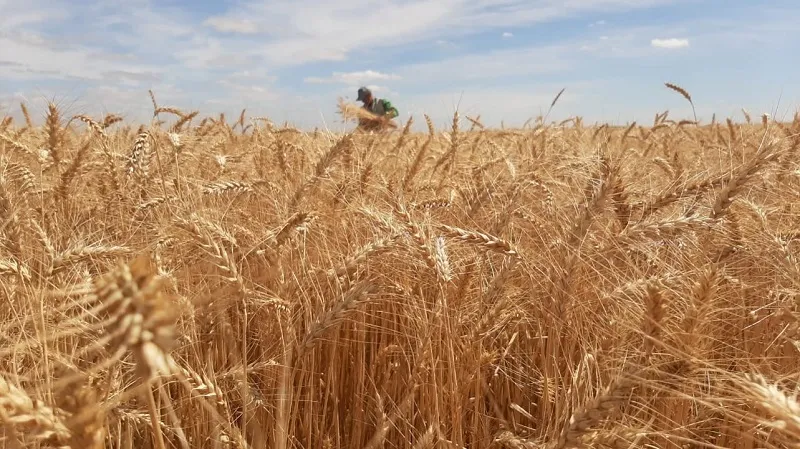
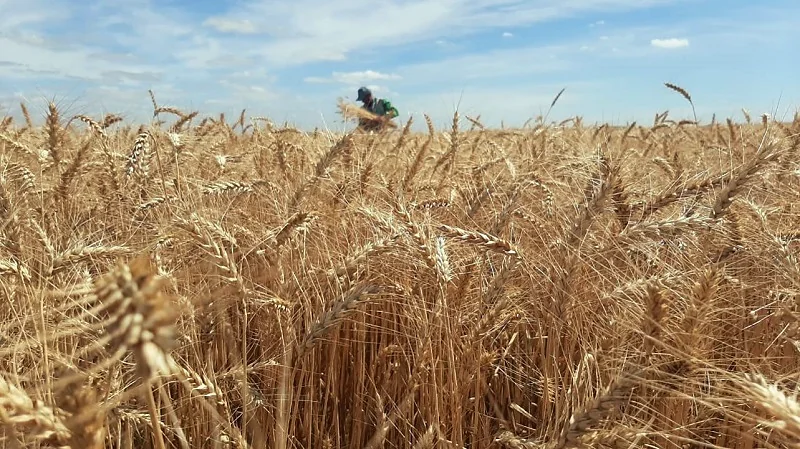
Ferme du Montaval : photos de la ferme améliorées (originaux 2000 px, 1x/2x), photo du magasin inchangée, noindex conservé

diff --git a/ferme-du-montaval/index.html b/ferme-du-montaval/index.html
@@ -258,7 +258,7 @@ h1,h2,h3,.marque,.chiffre,.mois,.reperes dt,.mot,.prix b{font-family:"Young Seri
       <p>Légumes, fruits et produits de la ferme en libre-service, devant la ferme. Vous passez quand ça vous arrange.</p></div>
     </article>
     <article class="facon f-vendredi">
-      <img src="img/recolte.webp" alt="Récolte de poireaux à la ferme" width="1400" height="1050" loading="lazy">
+      <img src="img/recolte-1x.webp" srcset="img/recolte-1x.webp 1000w, img/recolte.webp 2000w" sizes="(max-width:960px) 100vw, 45vw" alt="Récolte de poireaux à la ferme" width="2000" height="1500" loading="lazy">
       <div class="txt"><h3><svg class="ico" viewBox="0 0 24 24" aria-hidden="true" fill="none" stroke="currentColor" stroke-width="1.75" stroke-linecap="round" stroke-linejoin="round"><path d="M3 11 12 4l9 7"/><path d="M5 10v10h14V10"/><path d="M10 20v-5h4v5"/></svg>Vente à la ferme</h3><p class="quand">Le vendredi, de 16 h à 20&nbsp;h</p>
       <p>Fruits et légumes, pommes de terre de plusieurs variétés, œufs frais, viande de notre élevage, jus de la ferme et épicerie locale.</p></div>
     </article>
@@ -296,7 +296,7 @@ h1,h2,h3,.marque,.chiffre,.mois,.reperes dt,.mot,.prix b{font-family:"Young Seri
 </div>
 <div class="defilement" aria-label="Avis Google de nos clients"><div class="defile rang1"><ul class="piste" style="--duree:49s"><li class="carte-avis"><div class="qui"><span class="avatar" style="background:#b80672" aria-hidden="true">I</span><span class="nom">Isabel M.<small>il y a 3 ans</small></span><span class="g" aria-label="Avis Google">G</span></div><span class="note-carte" aria-label="5 sur 5"><span class="etoiles" aria-hidden="true"><svg viewBox="0 0 20 20" aria-hidden="true"><path d="M10 1.8l2.5 5.3 5.7.7-4.2 4 1.1 5.7L10 14.7 4.9 17.5 6 11.8 1.8 7.8l5.7-.7L10 1.8z" fill="currentColor" stroke="currentColor" stroke-width="1.2"/></svg><svg viewBox="0 0 20 20" aria-hidden="true"><path d="M10 1.8l2.5 5.3 5.7.7-4.2 4 1.1 5.7L10 14.7 4.9 17.5 6 11.8 1.8 7.8l5.7-.7L10 1.8z" fill="currentColor" stroke="currentColor" stroke-width="1.2"/></svg><svg viewBox="0 0 20 20" aria-hidden="true"><path d="M10 1.8l2.5 5.3 5.7.7-4.2 4 1.1 5.7L10 14.7 4.9 17.5 6 11.8 1.8 7.8l5.7-.7L10 1.8z" fill="currentColor" stroke="currentColor" stroke-width="1.2"/></svg><svg viewBox="0 0 20 20" aria-hidden="true"><path d="M10 1.8l2.5 5.3 5.7.7-4.2 4 1.1 5.7L10 14.7 4.9 17.5 6 11.8 1.8 7.8l5.7-.7L10 1.8z" fill="currentColor" stroke="currentColor" stroke-width="1.2"/></svg><svg viewBox="0 0 20 20" aria-hidden="true"><path d="M10 1.8l2.5 5.3 5.7.7-4.2 4 1.1 5.7L10 14.7 4.9 17.5 6 11.8 1.8 7.8l5.7-.7L10 1.8z" fill="currentColor" stroke="currentColor" stroke-width="1.2"/></svg></span></span><p>«&nbsp;Très belle ferme innovante grâce à son nouveau distributeur de légumes. Un très joli petit magasin où le patron est à l'écoute de sa clientèle&nbsp;»</p></li><li class="carte-avis court"><div class="qui"><span class="avatar" style="background:#5f6368" aria-hidden="true">C</span><span class="nom">Cecile M.<small>il y a 4 mois</small></span><span class="g" aria-label="Avis Google">G</span></div><span class="note-carte" aria-label="5 sur 5"><span class="etoiles" aria-hidden="true"><svg viewBox="0 0 20 20" aria-hidden="true"><path d="M10 1.8l2.5 5.3 5.7.7-4.2 4 1.1 5.7L10 14.7 4.9 17.5 6 11.8 1.8 7.8l5.7-.7L10 1.8z" fill="currentColor" stroke="currentColor" stroke-width="1.2"/></svg><svg viewBox="0 0 20 20" aria-hidden="true"><path d="M10 1.8l2.5 5.3 5.7.7-4.2 4 1.1 5.7L10 14.7 4.9 17.5 6 11.8 1.8 7.8l5.7-.7L10 1.8z" fill="currentColor" stroke="currentColor" stroke-width="1.2"/></svg><svg viewBox="0 0 20 20" aria-hidden="true"><path d="M10 1.8l2.5 5.3 5.7.7-4.2 4 1.1 5.7L10 14.7 4.9 17.5 6 11.8 1.8 7.8l5.7-.7L10 1.8z" fill="currentColor" stroke="currentColor" stroke-width="1.2"/></svg><svg viewBox="0 0 20 20" aria-hidden="true"><path d="M10 1.8l2.5 5.3 5.7.7-4.2 4 1.1 5.7L10 14.7 4.9 17.5 6 11.8 1.8 7.8l5.7-.7L10 1.8z" fill="currentColor" stroke="currentColor" stroke-width="1.2"/></svg><svg viewBox="0 0 20 20" aria-hidden="true"><path d="M10 1.8l2.5 5.3 5.7.7-4.2 4 1.1 5.7L10 14.7 4.9 17.5 6 11.8 1.8 7.8l5.7-.7L10 1.8z" fill="currentColor" stroke="currentColor" stroke-width="1.2"/></svg></span></span></li><li class="carte-avis court"><div class="qui"><span class="avatar" style="background:#7b5e00" aria-hidden="true">C</span><span class="nom">Clémence S.<small>il y a 7 mois</small></span><span class="g" aria-label="Avis Google">G</span></div><span class="note-carte" aria-label="5 sur 5"><span class="etoiles" aria-hidden="true"><svg viewBox="0 0 20 20" aria-hidden="true"><path d="M10 1.8l2.5 5.3 5.7.7-4.2 4 1.1 5.7L10 14.7 4.9 17.5 6 11.8 1.8 7.8l5.7-.7L10 1.8z" fill="currentColor" stroke="currentColor" stroke-width="1.2"/></svg><svg viewBox="0 0 20 20" aria-hidden="true"><path d="M10 1.8l2.5 5.3 5.7.7-4.2 4 1.1 5.7L10 14.7 4.9 17.5 6 11.8 1.8 7.8l5.7-.7L10 1.8z" fill="currentColor" stroke="currentColor" stroke-width="1.2"/></svg><svg viewBox="0 0 20 20" aria-hidden="true"><path d="M10 1.8l2.5 5.3 5.7.7-4.2 4 1.1 5.7L10 14.7 4.9 17.5 6 11.8 1.8 7.8l5.7-.7L10 1.8z" fill="currentColor" stroke="currentColor" stroke-width="1.2"/></svg><svg viewBox="0 0 20 20" aria-hidden="true"><path d="M10 1.8l2.5 5.3 5.7.7-4.2 4 1.1 5.7L10 14.7 4.9 17.5 6 11.8 1.8 7.8l5.7-.7L10 1.8z" fill="currentColor" stroke="currentColor" stroke-width="1.2"/></svg><svg viewBox="0 0 20 20" aria-hidden="true"><path d="M10 1.8l2.5 5.3 5.7.7-4.2 4 1.1 5.7L10 14.7 4.9 17.5 6 11.8 1.8 7.8l5.7-.7L10 1.8z" fill="currentColor" stroke="currentColor" stroke-width="1.2"/></svg></span></span></li><li class="carte-avis court"><div class="qui"><span class="avatar" style="background:#7b5e00" aria-hidden="true">H</span><span class="nom">Haitam A.<small>il y a 11 mois</small></span><span class="g" aria-label="Avis Google">G</span></div><span class="note-carte" aria-label="5 sur 5"><span class="etoiles" aria-hidden="true"><svg viewBox="0 0 20 20" aria-hidden="true"><path d="M10 1.8l2.5 5.3 5.7.7-4.2 4 1.1 5.7L10 14.7 4.9 17.5 6 11.8 1.8 7.8l5.7-.7L10 1.8z" fill="currentColor" stroke="currentColor" stroke-width="1.2"/></svg><svg viewBox="0 0 20 20" aria-hidden="true"><path d="M10 1.8l2.5 5.3 5.7.7-4.2 4 1.1 5.7L10 14.7 4.9 17.5 6 11.8 1.8 7.8l5.7-.7L10 1.8z" fill="currentColor" stroke="currentColor" stroke-width="1.2"/></svg><svg viewBox="0 0 20 20" aria-hidden="true"><path d="M10 1.8l2.5 5.3 5.7.7-4.2 4 1.1 5.7L10 14.7 4.9 17.5 6 11.8 1.8 7.8l5.7-.7L10 1.8z" fill="currentColor" stroke="currentColor" stroke-width="1.2"/></svg><svg viewBox="0 0 20 20" aria-hidden="true"><path d="M10 1.8l2.5 5.3 5.7.7-4.2 4 1.1 5.7L10 14.7 4.9 17.5 6 11.8 1.8 7.8l5.7-.7L10 1.8z" fill="currentColor" stroke="currentColor" stroke-width="1.2"/></svg><svg viewBox="0 0 20 20" aria-hidden="true"><path d="M10 1.8l2.5 5.3 5.7.7-4.2 4 1.1 5.7L10 14.7 4.9 17.5 6 11.8 1.8 7.8l5.7-.7L10 1.8z" fill="currentColor" stroke="currentColor" stroke-width="1.2"/></svg></span></span></li><li class="carte-avis"><div class="qui"><span class="avatar" style="background:#188038" aria-hidden="true">S</span><span class="nom">Saed<small>il y a 5 ans</small></span><span class="g" aria-label="Avis Google">G</span></div><span class="note-carte" aria-label="5 sur 5"><span class="etoiles" aria-hidden="true"><svg viewBox="0 0 20 20" aria-hidden="true"><path d="M10 1.8l2.5 5.3 5.7.7-4.2 4 1.1 5.7L10 14.7 4.9 17.5 6 11.8 1.8 7.8l5.7-.7L10 1.8z" fill="currentColor" stroke="currentColor" stroke-width="1.2"/></svg><svg viewBox="0 0 20 20" aria-hidden="true"><path d="M10 1.8l2.5 5.3 5.7.7-4.2 4 1.1 5.7L10 14.7 4.9 17.5 6 11.8 1.8 7.8l5.7-.7L10 1.8z" fill="currentColor" stroke="currentColor" stroke-width="1.2"/></svg><svg viewBox="0 0 20 20" aria-hidden="true"><path d="M10 1.8l2.5 5.3 5.7.7-4.2 4 1.1 5.7L10 14.7 4.9 17.5 6 11.8 1.8 7.8l5.7-.7L10 1.8z" fill="currentColor" stroke="currentColor" stroke-width="1.2"/></svg><svg viewBox="0 0 20 20" aria-hidden="true"><path d="M10 1.8l2.5 5.3 5.7.7-4.2 4 1.1 5.7L10 14.7 4.9 17.5 6 11.8 1.8 7.8l5.7-.7L10 1.8z" fill="currentColor" stroke="currentColor" stroke-width="1.2"/></svg><svg viewBox="0 0 20 20" aria-hidden="true"><path d="M10 1.8l2.5 5.3 5.7.7-4.2 4 1.1 5.7L10 14.7 4.9 17.5 6 11.8 1.8 7.8l5.7-.7L10 1.8z" fill="currentColor" stroke="currentColor" stroke-width="1.2"/></svg></span></span><p>«&nbsp;Une expérience merveilleuse, un endroit merveilleux, le propriétaire de la ferme est le plus merveilleux et les propriétaires du lieu sont…&nbsp;»</p></li><li class="carte-avis court"><div class="qui"><span class="avatar" style="background:#b80672" aria-hidden="true">P</span><span class="nom">Pascal B.<small>il y a 5 ans</small></span><span class="g" aria-label="Avis Google">G</span></div><span class="note-carte" aria-label="5 sur 5"><span class="etoiles" aria-hidden="true"><svg viewBox="0 0 20 20" aria-hidden="true"><path d="M10 1.8l2.5 5.3 5.7.7-4.2 4 1.1 5.7L10 14.7 4.9 17.5 6 11.8 1.8 7.8l5.7-.7L10 1.8z" fill="currentColor" stroke="currentColor" stroke-width="1.2"/></svg><svg viewBox="0 0 20 20" aria-hidden="true"><path d="M10 1.8l2.5 5.3 5.7.7-4.2 4 1.1 5.7L10 14.7 4.9 17.5 6 11.8 1.8 7.8l5.7-.7L10 1.8z" fill="currentColor" stroke="currentColor" stroke-width="1.2"/></svg><svg viewBox="0 0 20 20" aria-hidden="true"><path d="M10 1.8l2.5 5.3 5.7.7-4.2 4 1.1 5.7L10 14.7 4.9 17.5 6 11.8 1.8 7.8l5.7-.7L10 1.8z" fill="currentColor" stroke="currentColor" stroke-width="1.2"/></svg><svg viewBox="0 0 20 20" aria-hidden="true"><path d="M10 1.8l2.5 5.3 5.7.7-4.2 4 1.1 5.7L10 14.7 4.9 17.5 6 11.8 1.8 7.8l5.7-.7L10 1.8z" fill="currentColor" stroke="currentColor" stroke-width="1.2"/></svg><svg viewBox="0 0 20 20" aria-hidden="true"><path d="M10 1.8l2.5 5.3 5.7.7-4.2 4 1.1 5.7L10 14.7 4.9 17.5 6 11.8 1.8 7.8l5.7-.7L10 1.8z" fill="currentColor" stroke="currentColor" stroke-width="1.2"/></svg></span></span></li><li class="carte-avis court"><div class="qui"><span class="avatar" style="background:#a142f4" aria-hidden="true">J</span><span class="nom">Jean-Luc W.<small>il y a 7 ans</small></span><span class="g" aria-label="Avis Google">G</span></div><span class="note-carte" aria-label="4 sur 5"><span class="etoiles" aria-hidden="true"><svg viewBox="0 0 20 20" aria-hidden="true"><path d="M10 1.8l2.5 5.3 5.7.7-4.2 4 1.1 5.7L10 14.7 4.9 17.5 6 11.8 1.8 7.8l5.7-.7L10 1.8z" fill="currentColor" stroke="currentColor" stroke-width="1.2"/></svg><svg viewBox="0 0 20 20" aria-hidden="true"><path d="M10 1.8l2.5 5.3 5.7.7-4.2 4 1.1 5.7L10 14.7 4.9 17.5 6 11.8 1.8 7.8l5.7-.7L10 1.8z" fill="currentColor" stroke="currentColor" stroke-width="1.2"/></svg><svg viewBox="0 0 20 20" aria-hidden="true"><path d="M10 1.8l2.5 5.3 5.7.7-4.2 4 1.1 5.7L10 14.7 4.9 17.5 6 11.8 1.8 7.8l5.7-.7L10 1.8z" fill="currentColor" stroke="currentColor" stroke-width="1.2"/></svg><svg viewBox="0 0 20 20" aria-hidden="true"><path d="M10 1.8l2.5 5.3 5.7.7-4.2 4 1.1 5.7L10 14.7 4.9 17.5 6 11.8 1.8 7.8l5.7-.7L10 1.8z" fill="currentColor" stroke="currentColor" stroke-width="1.2"/></svg><svg viewBox="0 0 20 20" aria-hidden="true"><path d="M10 1.8l2.5 5.3 5.7.7-4.2 4 1.1 5.7L10 14.7 4.9 17.5 6 11.8 1.8 7.8l5.7-.7L10 1.8z" fill="none" stroke="currentColor" stroke-width="1.2"/></svg></span></span></li><li class="carte-avis" aria-hidden="true"><div class="qui"><span class="avatar" style="background:#b80672" aria-hidden="true">I</span><span class="nom">Isabel M.<small>il y a 3 ans</small></span><span class="g" aria-label="Avis Google">G</span></div><span class="note-carte" aria-label="5 sur 5"><span class="etoiles" aria-hidden="true"><svg viewBox="0 0 20 20" aria-hidden="true"><path d="M10 1.8l2.5 5.3 5.7.7-4.2 4 1.1 5.7L10 14.7 4.9 17.5 6 11.8 1.8 7.8l5.7-.7L10 1.8z" fill="currentColor" stroke="currentColor" stroke-width="1.2"/></svg><svg viewBox="0 0 20 20" aria-hidden="true"><path d="M10 1.8l2.5 5.3 5.7.7-4.2 4 1.1 5.7L10 14.7 4.9 17.5 6 11.8 1.8 7.8l5.7-.7L10 1.8z" fill="currentColor" stroke="currentColor" stroke-width="1.2"/></svg><svg viewBox="0 0 20 20" aria-hidden="true"><path d="M10 1.8l2.5 5.3 5.7.7-4.2 4 1.1 5.7L10 14.7 4.9 17.5 6 11.8 1.8 7.8l5.7-.7L10 1.8z" fill="currentColor" stroke="currentColor" stroke-width="1.2"/></svg><svg viewBox="0 0 20 20" aria-hidden="true"><path d="M10 1.8l2.5 5.3 5.7.7-4.2 4 1.1 5.7L10 14.7 4.9 17.5 6 11.8 1.8 7.8l5.7-.7L10 1.8z" fill="currentColor" stroke="currentColor" stroke-width="1.2"/></svg><svg viewBox="0 0 20 20" aria-hidden="true"><path d="M10 1.8l2.5 5.3 5.7.7-4.2 4 1.1 5.7L10 14.7 4.9 17.5 6 11.8 1.8 7.8l5.7-.7L10 1.8z" fill="currentColor" stroke="currentColor" stroke-width="1.2"/></svg></span></span><p>«&nbsp;Très belle ferme innovante grâce à son nouveau distributeur de légumes. Un très joli petit magasin où le patron est à l'écoute de sa clientèle&nbsp;»</p></li><li class="carte-avis court" aria-hidden="true"><div class="qui"><span class="avatar" style="background:#5f6368" aria-hidden="true">C</span><span class="nom">Cecile M.<small>il y a 4 mois</small></span><span class="g" aria-label="Avis Google">G</span></div><span class="note-carte" aria-label="5 sur 5"><span class="etoiles" aria-hidden="true"><svg viewBox="0 0 20 20" aria-hidden="true"><path d="M10 1.8l2.5 5.3 5.7.7-4.2 4 1.1 5.7L10 14.7 4.9 17.5 6 11.8 1.8 7.8l5.7-.7L10 1.8z" fill="currentColor" stroke="currentColor" stroke-width="1.2"/></svg><svg viewBox="0 0 20 20" aria-hidden="true"><path d="M10 1.8l2.5 5.3 5.7.7-4.2 4 1.1 5.7L10 14.7 4.9 17.5 6 11.8 1.8 7.8l5.7-.7L10 1.8z" fill="currentColor" stroke="currentColor" stroke-width="1.2"/></svg><svg viewBox="0 0 20 20" aria-hidden="true"><path d="M10 1.8l2.5 5.3 5.7.7-4.2 4 1.1 5.7L10 14.7 4.9 17.5 6 11.8 1.8 7.8l5.7-.7L10 1.8z" fill="currentColor" stroke="currentColor" stroke-width="1.2"/></svg><svg viewBox="0 0 20 20" aria-hidden="true"><path d="M10 1.8l2.5 5.3 5.7.7-4.2 4 1.1 5.7L10 14.7 4.9 17.5 6 11.8 1.8 7.8l5.7-.7L10 1.8z" fill="currentColor" stroke="currentColor" stroke-width="1.2"/></svg><svg viewBox="0 0 20 20" aria-hidden="true"><path d="M10 1.8l2.5 5.3 5.7.7-4.2 4 1.1 5.7L10 14.7 4.9 17.5 6 11.8 1.8 7.8l5.7-.7L10 1.8z" fill="currentColor" stroke="currentColor" stroke-width="1.2"/></svg></span></span></li><li class="carte-avis court" aria-hidden="true"><div class="qui"><span class="avatar" style="background:#7b5e00" aria-hidden="true">C</span><span class="nom">Clémence S.<small>il y a 7 mois</small></span><span class="g" aria-label="Avis Google">G</span></div><span class="note-carte" aria-label="5 sur 5"><span class="etoiles" aria-hidden="true"><svg viewBox="0 0 20 20" aria-hidden="true"><path d="M10 1.8l2.5 5.3 5.7.7-4.2 4 1.1 5.7L10 14.7 4.9 17.5 6 11.8 1.8 7.8l5.7-.7L10 1.8z" fill="currentColor" stroke="currentColor" stroke-width="1.2"/></svg><svg viewBox="0 0 20 20" aria-hidden="true"><path d="M10 1.8l2.5 5.3 5.7.7-4.2 4 1.1 5.7L10 14.7 4.9 17.5 6 11.8 1.8 7.8l5.7-.7L10 1.8z" fill="currentColor" stroke="currentColor" stroke-width="1.2"/></svg><svg viewBox="0 0 20 20" aria-hidden="true"><path d="M10 1.8l2.5 5.3 5.7.7-4.2 4 1.1 5.7L10 14.7 4.9 17.5 6 11.8 1.8 7.8l5.7-.7L10 1.8z" fill="currentColor" stroke="currentColor" stroke-width="1.2"/></svg><svg viewBox="0 0 20 20" aria-hidden="true"><path d="M10 1.8l2.5 5.3 5.7.7-4.2 4 1.1 5.7L10 14.7 4.9 17.5 6 11.8 1.8 7.8l5.7-.7L10 1.8z" fill="currentColor" stroke="currentColor" stroke-width="1.2"/></svg><svg viewBox="0 0 20 20" aria-hidden="true"><path d="M10 1.8l2.5 5.3 5.7.7-4.2 4 1.1 5.7L10 14.7 4.9 17.5 6 11.8 1.8 7.8l5.7-.7L10 1.8z" fill="currentColor" stroke="currentColor" stroke-width="1.2"/></svg></span></span></li><li class="carte-avis court" aria-hidden="true"><div class="qui"><span class="avatar" style="background:#7b5e00" aria-hidden="true">H</span><span class="nom">Haitam A.<small>il y a 11 mois</small></span><span class="g" aria-label="Avis Google">G</span></div><span class="note-carte" aria-label="5 sur 5"><span class="etoiles" aria-hidden="true"><svg viewBox="0 0 20 20" aria-hidden="true"><path d="M10 1.8l2.5 5.3 5.7.7-4.2 4 1.1 5.7L10 14.7 4.9 17.5 6 11.8 1.8 7.8l5.7-.7L10 1.8z" fill="currentColor" stroke="currentColor" stroke-width="1.2"/></svg><svg viewBox="0 0 20 20" aria-hidden="true"><path d="M10 1.8l2.5 5.3 5.7.7-4.2 4 1.1 5.7L10 14.7 4.9 17.5 6 11.8 1.8 7.8l5.7-.7L10 1.8z" fill="currentColor" stroke="currentColor" stroke-width="1.2"/></svg><svg viewBox="0 0 20 20" aria-hidden="true"><path d="M10 1.8l2.5 5.3 5.7.7-4.2 4 1.1 5.7L10 14.7 4.9 17.5 6 11.8 1.8 7.8l5.7-.7L10 1.8z" fill="currentColor" stroke="currentColor" stroke-width="1.2"/></svg><svg viewBox="0 0 20 20" aria-hidden="true"><path d="M10 1.8l2.5 5.3 5.7.7-4.2 4 1.1 5.7L10 14.7 4.9 17.5 6 11.8 1.8 7.8l5.7-.7L10 1.8z" fill="currentColor" stroke="currentColor" stroke-width="1.2"/></svg><svg viewBox="0 0 20 20" aria-hidden="true"><path d="M10 1.8l2.5 5.3 5.7.7-4.2 4 1.1 5.7L10 14.7 4.9 17.5 6 11.8 1.8 7.8l5.7-.7L10 1.8z" fill="currentColor" stroke="currentColor" stroke-width="1.2"/></svg></span></span></li><li class="carte-avis" aria-hidden="true"><div class="qui"><span class="avatar" style="background:#188038" aria-hidden="true">S</span><span class="nom">Saed<small>il y a 5 ans</small></span><span class="g" aria-label="Avis Google">G</span></div><span class="note-carte" aria-label="5 sur 5"><span class="etoiles" aria-hidden="true"><svg viewBox="0 0 20 20" aria-hidden="true"><path d="M10 1.8l2.5 5.3 5.7.7-4.2 4 1.1 5.7L10 14.7 4.9 17.5 6 11.8 1.8 7.8l5.7-.7L10 1.8z" fill="currentColor" stroke="currentColor" stroke-width="1.2"/></svg><svg viewBox="0 0 20 20" aria-hidden="true"><path d="M10 1.8l2.5 5.3 5.7.7-4.2 4 1.1 5.7L10 14.7 4.9 17.5 6 11.8 1.8 7.8l5.7-.7L10 1.8z" fill="currentColor" stroke="currentColor" stroke-width="1.2"/></svg><svg viewBox="0 0 20 20" aria-hidden="true"><path d="M10 1.8l2.5 5.3 5.7.7-4.2 4 1.1 5.7L10 14.7 4.9 17.5 6 11.8 1.8 7.8l5.7-.7L10 1.8z" fill="currentColor" stroke="currentColor" stroke-width="1.2"/></svg><svg viewBox="0 0 20 20" aria-hidden="true"><path d="M10 1.8l2.5 5.3 5.7.7-4.2 4 1.1 5.7L10 14.7 4.9 17.5 6 11.8 1.8 7.8l5.7-.7L10 1.8z" fill="currentColor" stroke="currentColor" stroke-width="1.2"/></svg><svg viewBox="0 0 20 20" aria-hidden="true"><path d="M10 1.8l2.5 5.3 5.7.7-4.2 4 1.1 5.7L10 14.7 4.9 17.5 6 11.8 1.8 7.8l5.7-.7L10 1.8z" fill="currentColor" stroke="currentColor" stroke-width="1.2"/></svg></span></span><p>«&nbsp;Une expérience merveilleuse, un endroit merveilleux, le propriétaire de la ferme est le plus merveilleux et les propriétaires du lieu sont…&nbsp;»</p></li><li class="carte-avis court" aria-hidden="true"><div class="qui"><span class="avatar" style="background:#b80672" aria-hidden="true">P</span><span class="nom">Pascal B.<small>il y a 5 ans</small></span><span class="g" aria-label="Avis Google">G</span></div><span class="note-carte" aria-label="5 sur 5"><span class="etoiles" aria-hidden="true"><svg viewBox="0 0 20 20" aria-hidden="true"><path d="M10 1.8l2.5 5.3 5.7.7-4.2 4 1.1 5.7L10 14.7 4.9 17.5 6 11.8 1.8 7.8l5.7-.7L10 1.8z" fill="currentColor" stroke="currentColor" stroke-width="1.2"/></svg><svg viewBox="0 0 20 20" aria-hidden="true"><path d="M10 1.8l2.5 5.3 5.7.7-4.2 4 1.1 5.7L10 14.7 4.9 17.5 6 11.8 1.8 7.8l5.7-.7L10 1.8z" fill="currentColor" stroke="currentColor" stroke-width="1.2"/></svg><svg viewBox="0 0 20 20" aria-hidden="true"><path d="M10 1.8l2.5 5.3 5.7.7-4.2 4 1.1 5.7L10 14.7 4.9 17.5 6 11.8 1.8 7.8l5.7-.7L10 1.8z" fill="currentColor" stroke="currentColor" stroke-width="1.2"/></svg><svg viewBox="0 0 20 20" aria-hidden="true"><path d="M10 1.8l2.5 5.3 5.7.7-4.2 4 1.1 5.7L10 14.7 4.9 17.5 6 11.8 1.8 7.8l5.7-.7L10 1.8z" fill="currentColor" stroke="currentColor" stroke-width="1.2"/></svg><svg viewBox="0 0 20 20" aria-hidden="true"><path d="M10 1.8l2.5 5.3 5.7.7-4.2 4 1.1 5.7L10 14.7 4.9 17.5 6 11.8 1.8 7.8l5.7-.7L10 1.8z" fill="currentColor" stroke="currentColor" stroke-width="1.2"/></svg></span></span></li><li class="carte-avis court" aria-hidden="true"><div class="qui"><span class="avatar" style="background:#a142f4" aria-hidden="true">J</span><span class="nom">Jean-Luc W.<small>il y a 7 ans</small></span><span class="g" aria-label="Avis Google">G</span></div><span class="note-carte" aria-label="4 sur 5"><span class="etoiles" aria-hidden="true"><svg viewBox="0 0 20 20" aria-hidden="true"><path d="M10 1.8l2.5 5.3 5.7.7-4.2 4 1.1 5.7L10 14.7 4.9 17.5 6 11.8 1.8 7.8l5.7-.7L10 1.8z" fill="currentColor" stroke="currentColor" stroke-width="1.2"/></svg><svg viewBox="0 0 20 20" aria-hidden="true"><path d="M10 1.8l2.5 5.3 5.7.7-4.2 4 1.1 5.7L10 14.7 4.9 17.5 6 11.8 1.8 7.8l5.7-.7L10 1.8z" fill="currentColor" stroke="currentColor" stroke-width="1.2"/></svg><svg viewBox="0 0 20 20" aria-hidden="true"><path d="M10 1.8l2.5 5.3 5.7.7-4.2 4 1.1 5.7L10 14.7 4.9 17.5 6 11.8 1.8 7.8l5.7-.7L10 1.8z" fill="currentColor" stroke="currentColor" stroke-width="1.2"/></svg><svg viewBox="0 0 20 20" aria-hidden="true"><path d="M10 1.8l2.5 5.3 5.7.7-4.2 4 1.1 5.7L10 14.7 4.9 17.5 6 11.8 1.8 7.8l5.7-.7L10 1.8z" fill="currentColor" stroke="currentColor" stroke-width="1.2"/></svg><svg viewBox="0 0 20 20" aria-hidden="true"><path d="M10 1.8l2.5 5.3 5.7.7-4.2 4 1.1 5.7L10 14.7 4.9 17.5 6 11.8 1.8 7.8l5.7-.7L10 1.8z" fill="none" stroke="currentColor" stroke-width="1.2"/></svg></span></span></li></ul></div><div class="defile rang2"><ul class="piste" style="--duree:49s"><li class="carte-avis court"><div class="qui"><span class="avatar" style="background:#5f6368" aria-hidden="true">O</span><span class="nom">Odette L.<small>il y a 2 mois</small></span><span class="g" aria-label="Avis Google">G</span></div><span class="note-carte" aria-label="5 sur 5"><span class="etoiles" aria-hidden="true"><svg viewBox="0 0 20 20" aria-hidden="true"><path d="M10 1.8l2.5 5.3 5.7.7-4.2 4 1.1 5.7L10 14.7 4.9 17.5 6 11.8 1.8 7.8l5.7-.7L10 1.8z" fill="currentColor" stroke="currentColor" stroke-width="1.2"/></svg><svg viewBox="0 0 20 20" aria-hidden="true"><path d="M10 1.8l2.5 5.3 5.7.7-4.2 4 1.1 5.7L10 14.7 4.9 17.5 6 11.8 1.8 7.8l5.7-.7L10 1.8z" fill="currentColor" stroke="currentColor" stroke-width="1.2"/></svg><svg viewBox="0 0 20 20" aria-hidden="true"><path d="M10 1.8l2.5 5.3 5.7.7-4.2 4 1.1 5.7L10 14.7 4.9 17.5 6 11.8 1.8 7.8l5.7-.7L10 1.8z" fill="currentColor" stroke="currentColor" stroke-width="1.2"/></svg><svg viewBox="0 0 20 20" aria-hidden="true"><path d="M10 1.8l2.5 5.3 5.7.7-4.2 4 1.1 5.7L10 14.7 4.9 17.5 6 11.8 1.8 7.8l5.7-.7L10 1.8z" fill="currentColor" stroke="currentColor" stroke-width="1.2"/></svg><svg viewBox="0 0 20 20" aria-hidden="true"><path d="M10 1.8l2.5 5.3 5.7.7-4.2 4 1.1 5.7L10 14.7 4.9 17.5 6 11.8 1.8 7.8l5.7-.7L10 1.8z" fill="currentColor" stroke="currentColor" stroke-width="1.2"/></svg></span></span></li><li class="carte-avis court"><div class="qui"><span class="avatar" style="background:#007b83" aria-hidden="true">A</span><span class="nom">Amedeo H.<small>il y a 5 mois</small></span><span class="g" aria-label="Avis Google">G</span></div><span class="note-carte" aria-label="5 sur 5"><span class="etoiles" aria-hidden="true"><svg viewBox="0 0 20 20" aria-hidden="true"><path d="M10 1.8l2.5 5.3 5.7.7-4.2 4 1.1 5.7L10 14.7 4.9 17.5 6 11.8 1.8 7.8l5.7-.7L10 1.8z" fill="currentColor" stroke="currentColor" stroke-width="1.2"/></svg><svg viewBox="0 0 20 20" aria-hidden="true"><path d="M10 1.8l2.5 5.3 5.7.7-4.2 4 1.1 5.7L10 14.7 4.9 17.5 6 11.8 1.8 7.8l5.7-.7L10 1.8z" fill="currentColor" stroke="currentColor" stroke-width="1.2"/></svg><svg viewBox="0 0 20 20" aria-hidden="true"><path d="M10 1.8l2.5 5.3 5.7.7-4.2 4 1.1 5.7L10 14.7 4.9 17.5 6 11.8 1.8 7.8l5.7-.7L10 1.8z" fill="currentColor" stroke="currentColor" stroke-width="1.2"/></svg><svg viewBox="0 0 20 20" aria-hidden="true"><path d="M10 1.8l2.5 5.3 5.7.7-4.2 4 1.1 5.7L10 14.7 4.9 17.5 6 11.8 1.8 7.8l5.7-.7L10 1.8z" fill="currentColor" stroke="currentColor" stroke-width="1.2"/></svg><svg viewBox="0 0 20 20" aria-hidden="true"><path d="M10 1.8l2.5 5.3 5.7.7-4.2 4 1.1 5.7L10 14.7 4.9 17.5 6 11.8 1.8 7.8l5.7-.7L10 1.8z" fill="currentColor" stroke="currentColor" stroke-width="1.2"/></svg></span></span></li><li class="carte-avis"><div class="qui"><span class="avatar" style="background:#c5221f" aria-hidden="true">M</span><span class="nom">Michel V.<small>il y a 3 ans</small></span><span class="g" aria-label="Avis Google">G</span></div><span class="note-carte" aria-label="5 sur 5"><span class="etoiles" aria-hidden="true"><svg viewBox="0 0 20 20" aria-hidden="true"><path d="M10 1.8l2.5 5.3 5.7.7-4.2 4 1.1 5.7L10 14.7 4.9 17.5 6 11.8 1.8 7.8l5.7-.7L10 1.8z" fill="currentColor" stroke="currentColor" stroke-width="1.2"/></svg><svg viewBox="0 0 20 20" aria-hidden="true"><path d="M10 1.8l2.5 5.3 5.7.7-4.2 4 1.1 5.7L10 14.7 4.9 17.5 6 11.8 1.8 7.8l5.7-.7L10 1.8z" fill="currentColor" stroke="currentColor" stroke-width="1.2"/></svg><svg viewBox="0 0 20 20" aria-hidden="true"><path d="M10 1.8l2.5 5.3 5.7.7-4.2 4 1.1 5.7L10 14.7 4.9 17.5 6 11.8 1.8 7.8l5.7-.7L10 1.8z" fill="currentColor" stroke="currentColor" stroke-width="1.2"/></svg><svg viewBox="0 0 20 20" aria-hidden="true"><path d="M10 1.8l2.5 5.3 5.7.7-4.2 4 1.1 5.7L10 14.7 4.9 17.5 6 11.8 1.8 7.8l5.7-.7L10 1.8z" fill="currentColor" stroke="currentColor" stroke-width="1.2"/></svg><svg viewBox="0 0 20 20" aria-hidden="true"><path d="M10 1.8l2.5 5.3 5.7.7-4.2 4 1.1 5.7L10 14.7 4.9 17.5 6 11.8 1.8 7.8l5.7-.7L10 1.8z" fill="currentColor" stroke="currentColor" stroke-width="1.2"/></svg></span></span><p>«&nbsp;Top&nbsp;»</p></li><li class="carte-avis court"><div class="qui"><span class="avatar" style="background:#c5221f" aria-hidden="true">A</span><span class="nom">Agnes N.<small>il y a 2 ans</small></span><span class="g" aria-label="Avis Google">G</span></div><span class="note-carte" aria-label="5 sur 5"><span class="etoiles" aria-hidden="true"><svg viewBox="0 0 20 20" aria-hidden="true"><path d="M10 1.8l2.5 5.3 5.7.7-4.2 4 1.1 5.7L10 14.7 4.9 17.5 6 11.8 1.8 7.8l5.7-.7L10 1.8z" fill="currentColor" stroke="currentColor" stroke-width="1.2"/></svg><svg viewBox="0 0 20 20" aria-hidden="true"><path d="M10 1.8l2.5 5.3 5.7.7-4.2 4 1.1 5.7L10 14.7 4.9 17.5 6 11.8 1.8 7.8l5.7-.7L10 1.8z" fill="currentColor" stroke="currentColor" stroke-width="1.2"/></svg><svg viewBox="0 0 20 20" aria-hidden="true"><path d="M10 1.8l2.5 5.3 5.7.7-4.2 4 1.1 5.7L10 14.7 4.9 17.5 6 11.8 1.8 7.8l5.7-.7L10 1.8z" fill="currentColor" stroke="currentColor" stroke-width="1.2"/></svg><svg viewBox="0 0 20 20" aria-hidden="true"><path d="M10 1.8l2.5 5.3 5.7.7-4.2 4 1.1 5.7L10 14.7 4.9 17.5 6 11.8 1.8 7.8l5.7-.7L10 1.8z" fill="currentColor" stroke="currentColor" stroke-width="1.2"/></svg><svg viewBox="0 0 20 20" aria-hidden="true"><path d="M10 1.8l2.5 5.3 5.7.7-4.2 4 1.1 5.7L10 14.7 4.9 17.5 6 11.8 1.8 7.8l5.7-.7L10 1.8z" fill="currentColor" stroke="currentColor" stroke-width="1.2"/></svg></span></span></li><li class="carte-avis court"><div class="qui"><span class="avatar" style="background:#b80672" aria-hidden="true">M</span><span class="nom">Miinuus M.<small>il y a 4 ans</small></span><span class="g" aria-label="Avis Google">G</span></div><span class="note-carte" aria-label="5 sur 5"><span class="etoiles" aria-hidden="true"><svg viewBox="0 0 20 20" aria-hidden="true"><path d="M10 1.8l2.5 5.3 5.7.7-4.2 4 1.1 5.7L10 14.7 4.9 17.5 6 11.8 1.8 7.8l5.7-.7L10 1.8z" fill="currentColor" stroke="currentColor" stroke-width="1.2"/></svg><svg viewBox="0 0 20 20" aria-hidden="true"><path d="M10 1.8l2.5 5.3 5.7.7-4.2 4 1.1 5.7L10 14.7 4.9 17.5 6 11.8 1.8 7.8l5.7-.7L10 1.8z" fill="currentColor" stroke="currentColor" stroke-width="1.2"/></svg><svg viewBox="0 0 20 20" aria-hidden="true"><path d="M10 1.8l2.5 5.3 5.7.7-4.2 4 1.1 5.7L10 14.7 4.9 17.5 6 11.8 1.8 7.8l5.7-.7L10 1.8z" fill="currentColor" stroke="currentColor" stroke-width="1.2"/></svg><svg viewBox="0 0 20 20" aria-hidden="true"><path d="M10 1.8l2.5 5.3 5.7.7-4.2 4 1.1 5.7L10 14.7 4.9 17.5 6 11.8 1.8 7.8l5.7-.7L10 1.8z" fill="currentColor" stroke="currentColor" stroke-width="1.2"/></svg><svg viewBox="0 0 20 20" aria-hidden="true"><path d="M10 1.8l2.5 5.3 5.7.7-4.2 4 1.1 5.7L10 14.7 4.9 17.5 6 11.8 1.8 7.8l5.7-.7L10 1.8z" fill="currentColor" stroke="currentColor" stroke-width="1.2"/></svg></span></span></li><li class="carte-avis"><div class="qui"><span class="avatar" style="background:#b80672" aria-hidden="true">H</span><span class="nom">Henri V.<small>il y a 9 ans</small></span><span class="g" aria-label="Avis Google">G</span></div><span class="note-carte" aria-label="5 sur 5"><span class="etoiles" aria-hidden="true"><svg viewBox="0 0 20 20" aria-hidden="true"><path d="M10 1.8l2.5 5.3 5.7.7-4.2 4 1.1 5.7L10 14.7 4.9 17.5 6 11.8 1.8 7.8l5.7-.7L10 1.8z" fill="currentColor" stroke="currentColor" stroke-width="1.2"/></svg><svg viewBox="0 0 20 20" aria-hidden="true"><path d="M10 1.8l2.5 5.3 5.7.7-4.2 4 1.1 5.7L10 14.7 4.9 17.5 6 11.8 1.8 7.8l5.7-.7L10 1.8z" fill="currentColor" stroke="currentColor" stroke-width="1.2"/></svg><svg viewBox="0 0 20 20" aria-hidden="true"><path d="M10 1.8l2.5 5.3 5.7.7-4.2 4 1.1 5.7L10 14.7 4.9 17.5 6 11.8 1.8 7.8l5.7-.7L10 1.8z" fill="currentColor" stroke="currentColor" stroke-width="1.2"/></svg><svg viewBox="0 0 20 20" aria-hidden="true"><path d="M10 1.8l2.5 5.3 5.7.7-4.2 4 1.1 5.7L10 14.7 4.9 17.5 6 11.8 1.8 7.8l5.7-.7L10 1.8z" fill="currentColor" stroke="currentColor" stroke-width="1.2"/></svg><svg viewBox="0 0 20 20" aria-hidden="true"><path d="M10 1.8l2.5 5.3 5.7.7-4.2 4 1.1 5.7L10 14.7 4.9 17.5 6 11.8 1.8 7.8l5.7-.7L10 1.8z" fill="currentColor" stroke="currentColor" stroke-width="1.2"/></svg></span></span><p>«&nbsp;Sympathique et region campagne&nbsp;»</p></li><li class="carte-avis court"><div class="qui"><span class="avatar" style="background:#a142f4" aria-hidden="true">F</span><span class="nom">Frédérique B.<small>il y a 8 ans</small></span><span class="g" aria-label="Avis Google">G</span></div><span class="note-carte" aria-label="4 sur 5"><span class="etoiles" aria-hidden="true"><svg viewBox="0 0 20 20" aria-hidden="true"><path d="M10 1.8l2.5 5.3 5.7.7-4.2 4 1.1 5.7L10 14.7 4.9 17.5 6 11.8 1.8 7.8l5.7-.7L10 1.8z" fill="currentColor" stroke="currentColor" stroke-width="1.2"/></svg><svg viewBox="0 0 20 20" aria-hidden="true"><path d="M10 1.8l2.5 5.3 5.7.7-4.2 4 1.1 5.7L10 14.7 4.9 17.5 6 11.8 1.8 7.8l5.7-.7L10 1.8z" fill="currentColor" stroke="currentColor" stroke-width="1.2"/></svg><svg viewBox="0 0 20 20" aria-hidden="true"><path d="M10 1.8l2.5 5.3 5.7.7-4.2 4 1.1 5.7L10 14.7 4.9 17.5 6 11.8 1.8 7.8l5.7-.7L10 1.8z" fill="currentColor" stroke="currentColor" stroke-width="1.2"/></svg><svg viewBox="0 0 20 20" aria-hidden="true"><path d="M10 1.8l2.5 5.3 5.7.7-4.2 4 1.1 5.7L10 14.7 4.9 17.5 6 11.8 1.8 7.8l5.7-.7L10 1.8z" fill="currentColor" stroke="currentColor" stroke-width="1.2"/></svg><svg viewBox="0 0 20 20" aria-hidden="true"><path d="M10 1.8l2.5 5.3 5.7.7-4.2 4 1.1 5.7L10 14.7 4.9 17.5 6 11.8 1.8 7.8l5.7-.7L10 1.8z" fill="none" stroke="currentColor" stroke-width="1.2"/></svg></span></span></li><li class="carte-avis court" aria-hidden="true"><div class="qui"><span class="avatar" style="background:#5f6368" aria-hidden="true">O</span><span class="nom">Odette L.<small>il y a 2 mois</small></span><span class="g" aria-label="Avis Google">G</span></div><span class="note-carte" aria-label="5 sur 5"><span class="etoiles" aria-hidden="true"><svg viewBox="0 0 20 20" aria-hidden="true"><path d="M10 1.8l2.5 5.3 5.7.7-4.2 4 1.1 5.7L10 14.7 4.9 17.5 6 11.8 1.8 7.8l5.7-.7L10 1.8z" fill="currentColor" stroke="currentColor" stroke-width="1.2"/></svg><svg viewBox="0 0 20 20" aria-hidden="true"><path d="M10 1.8l2.5 5.3 5.7.7-4.2 4 1.1 5.7L10 14.7 4.9 17.5 6 11.8 1.8 7.8l5.7-.7L10 1.8z" fill="currentColor" stroke="currentColor" stroke-width="1.2"/></svg><svg viewBox="0 0 20 20" aria-hidden="true"><path d="M10 1.8l2.5 5.3 5.7.7-4.2 4 1.1 5.7L10 14.7 4.9 17.5 6 11.8 1.8 7.8l5.7-.7L10 1.8z" fill="currentColor" stroke="currentColor" stroke-width="1.2"/></svg><svg viewBox="0 0 20 20" aria-hidden="true"><path d="M10 1.8l2.5 5.3 5.7.7-4.2 4 1.1 5.7L10 14.7 4.9 17.5 6 11.8 1.8 7.8l5.7-.7L10 1.8z" fill="currentColor" stroke="currentColor" stroke-width="1.2"/></svg><svg viewBox="0 0 20 20" aria-hidden="true"><path d="M10 1.8l2.5 5.3 5.7.7-4.2 4 1.1 5.7L10 14.7 4.9 17.5 6 11.8 1.8 7.8l5.7-.7L10 1.8z" fill="currentColor" stroke="currentColor" stroke-width="1.2"/></svg></span></span></li><li class="carte-avis court" aria-hidden="true"><div class="qui"><span class="avatar" style="background:#007b83" aria-hidden="true">A</span><span class="nom">Amedeo H.<small>il y a 5 mois</small></span><span class="g" aria-label="Avis Google">G</span></div><span class="note-carte" aria-label="5 sur 5"><span class="etoiles" aria-hidden="true"><svg viewBox="0 0 20 20" aria-hidden="true"><path d="M10 1.8l2.5 5.3 5.7.7-4.2 4 1.1 5.7L10 14.7 4.9 17.5 6 11.8 1.8 7.8l5.7-.7L10 1.8z" fill="currentColor" stroke="currentColor" stroke-width="1.2"/></svg><svg viewBox="0 0 20 20" aria-hidden="true"><path d="M10 1.8l2.5 5.3 5.7.7-4.2 4 1.1 5.7L10 14.7 4.9 17.5 6 11.8 1.8 7.8l5.7-.7L10 1.8z" fill="currentColor" stroke="currentColor" stroke-width="1.2"/></svg><svg viewBox="0 0 20 20" aria-hidden="true"><path d="M10 1.8l2.5 5.3 5.7.7-4.2 4 1.1 5.7L10 14.7 4.9 17.5 6 11.8 1.8 7.8l5.7-.7L10 1.8z" fill="currentColor" stroke="currentColor" stroke-width="1.2"/></svg><svg viewBox="0 0 20 20" aria-hidden="true"><path d="M10 1.8l2.5 5.3 5.7.7-4.2 4 1.1 5.7L10 14.7 4.9 17.5 6 11.8 1.8 7.8l5.7-.7L10 1.8z" fill="currentColor" stroke="currentColor" stroke-width="1.2"/></svg><svg viewBox="0 0 20 20" aria-hidden="true"><path d="M10 1.8l2.5 5.3 5.7.7-4.2 4 1.1 5.7L10 14.7 4.9 17.5 6 11.8 1.8 7.8l5.7-.7L10 1.8z" fill="currentColor" stroke="currentColor" stroke-width="1.2"/></svg></span></span></li><li class="carte-avis" aria-hidden="true"><div class="qui"><span class="avatar" style="background:#c5221f" aria-hidden="true">M</span><span class="nom">Michel V.<small>il y a 3 ans</small></span><span class="g" aria-label="Avis Google">G</span></div><span class="note-carte" aria-label="5 sur 5"><span class="etoiles" aria-hidden="true"><svg viewBox="0 0 20 20" aria-hidden="true"><path d="M10 1.8l2.5 5.3 5.7.7-4.2 4 1.1 5.7L10 14.7 4.9 17.5 6 11.8 1.8 7.8l5.7-.7L10 1.8z" fill="currentColor" stroke="currentColor" stroke-width="1.2"/></svg><svg viewBox="0 0 20 20" aria-hidden="true"><path d="M10 1.8l2.5 5.3 5.7.7-4.2 4 1.1 5.7L10 14.7 4.9 17.5 6 11.8 1.8 7.8l5.7-.7L10 1.8z" fill="currentColor" stroke="currentColor" stroke-width="1.2"/></svg><svg viewBox="0 0 20 20" aria-hidden="true"><path d="M10 1.8l2.5 5.3 5.7.7-4.2 4 1.1 5.7L10 14.7 4.9 17.5 6 11.8 1.8 7.8l5.7-.7L10 1.8z" fill="currentColor" stroke="currentColor" stroke-width="1.2"/></svg><svg viewBox="0 0 20 20" aria-hidden="true"><path d="M10 1.8l2.5 5.3 5.7.7-4.2 4 1.1 5.7L10 14.7 4.9 17.5 6 11.8 1.8 7.8l5.7-.7L10 1.8z" fill="currentColor" stroke="currentColor" stroke-width="1.2"/></svg><svg viewBox="0 0 20 20" aria-hidden="true"><path d="M10 1.8l2.5 5.3 5.7.7-4.2 4 1.1 5.7L10 14.7 4.9 17.5 6 11.8 1.8 7.8l5.7-.7L10 1.8z" fill="currentColor" stroke="currentColor" stroke-width="1.2"/></svg></span></span><p>«&nbsp;Top&nbsp;»</p></li><li class="carte-avis court" aria-hidden="true"><div class="qui"><span class="avatar" style="background:#c5221f" aria-hidden="true">A</span><span class="nom">Agnes N.<small>il y a 2 ans</small></span><span class="g" aria-label="Avis Google">G</span></div><span class="note-carte" aria-label="5 sur 5"><span class="etoiles" aria-hidden="true"><svg viewBox="0 0 20 20" aria-hidden="true"><path d="M10 1.8l2.5 5.3 5.7.7-4.2 4 1.1 5.7L10 14.7 4.9 17.5 6 11.8 1.8 7.8l5.7-.7L10 1.8z" fill="currentColor" stroke="currentColor" stroke-width="1.2"/></svg><svg viewBox="0 0 20 20" aria-hidden="true"><path d="M10 1.8l2.5 5.3 5.7.7-4.2 4 1.1 5.7L10 14.7 4.9 17.5 6 11.8 1.8 7.8l5.7-.7L10 1.8z" fill="currentColor" stroke="currentColor" stroke-width="1.2"/></svg><svg viewBox="0 0 20 20" aria-hidden="true"><path d="M10 1.8l2.5 5.3 5.7.7-4.2 4 1.1 5.7L10 14.7 4.9 17.5 6 11.8 1.8 7.8l5.7-.7L10 1.8z" fill="currentColor" stroke="currentColor" stroke-width="1.2"/></svg><svg viewBox="0 0 20 20" aria-hidden="true"><path d="M10 1.8l2.5 5.3 5.7.7-4.2 4 1.1 5.7L10 14.7 4.9 17.5 6 11.8 1.8 7.8l5.7-.7L10 1.8z" fill="currentColor" stroke="currentColor" stroke-width="1.2"/></svg><svg viewBox="0 0 20 20" aria-hidden="true"><path d="M10 1.8l2.5 5.3 5.7.7-4.2 4 1.1 5.7L10 14.7 4.9 17.5 6 11.8 1.8 7.8l5.7-.7L10 1.8z" fill="currentColor" stroke="currentColor" stroke-width="1.2"/></svg></span></span></li><li class="carte-avis court" aria-hidden="true"><div class="qui"><span class="avatar" style="background:#b80672" aria-hidden="true">M</span><span class="nom">Miinuus M.<small>il y a 4 ans</small></span><span class="g" aria-label="Avis Google">G</span></div><span class="note-carte" aria-label="5 sur 5"><span class="etoiles" aria-hidden="true"><svg viewBox="0 0 20 20" aria-hidden="true"><path d="M10 1.8l2.5 5.3 5.7.7-4.2 4 1.1 5.7L10 14.7 4.9 17.5 6 11.8 1.8 7.8l5.7-.7L10 1.8z" fill="currentColor" stroke="currentColor" stroke-width="1.2"/></svg><svg viewBox="0 0 20 20" aria-hidden="true"><path d="M10 1.8l2.5 5.3 5.7.7-4.2 4 1.1 5.7L10 14.7 4.9 17.5 6 11.8 1.8 7.8l5.7-.7L10 1.8z" fill="currentColor" stroke="currentColor" stroke-width="1.2"/></svg><svg viewBox="0 0 20 20" aria-hidden="true"><path d="M10 1.8l2.5 5.3 5.7.7-4.2 4 1.1 5.7L10 14.7 4.9 17.5 6 11.8 1.8 7.8l5.7-.7L10 1.8z" fill="currentColor" stroke="currentColor" stroke-width="1.2"/></svg><svg viewBox="0 0 20 20" aria-hidden="true"><path d="M10 1.8l2.5 5.3 5.7.7-4.2 4 1.1 5.7L10 14.7 4.9 17.5 6 11.8 1.8 7.8l5.7-.7L10 1.8z" fill="currentColor" stroke="currentColor" stroke-width="1.2"/></svg><svg viewBox="0 0 20 20" aria-hidden="true"><path d="M10 1.8l2.5 5.3 5.7.7-4.2 4 1.1 5.7L10 14.7 4.9 17.5 6 11.8 1.8 7.8l5.7-.7L10 1.8z" fill="currentColor" stroke="currentColor" stroke-width="1.2"/></svg></span></span></li><li class="carte-avis" aria-hidden="true"><div class="qui"><span class="avatar" style="background:#b80672" aria-hidden="true">H</span><span class="nom">Henri V.<small>il y a 9 ans</small></span><span class="g" aria-label="Avis Google">G</span></div><span class="note-carte" aria-label="5 sur 5"><span class="etoiles" aria-hidden="true"><svg viewBox="0 0 20 20" aria-hidden="true"><path d="M10 1.8l2.5 5.3 5.7.7-4.2 4 1.1 5.7L10 14.7 4.9 17.5 6 11.8 1.8 7.8l5.7-.7L10 1.8z" fill="currentColor" stroke="currentColor" stroke-width="1.2"/></svg><svg viewBox="0 0 20 20" aria-hidden="true"><path d="M10 1.8l2.5 5.3 5.7.7-4.2 4 1.1 5.7L10 14.7 4.9 17.5 6 11.8 1.8 7.8l5.7-.7L10 1.8z" fill="currentColor" stroke="currentColor" stroke-width="1.2"/></svg><svg viewBox="0 0 20 20" aria-hidden="true"><path d="M10 1.8l2.5 5.3 5.7.7-4.2 4 1.1 5.7L10 14.7 4.9 17.5 6 11.8 1.8 7.8l5.7-.7L10 1.8z" fill="currentColor" stroke="currentColor" stroke-width="1.2"/></svg><svg viewBox="0 0 20 20" aria-hidden="true"><path d="M10 1.8l2.5 5.3 5.7.7-4.2 4 1.1 5.7L10 14.7 4.9 17.5 6 11.8 1.8 7.8l5.7-.7L10 1.8z" fill="currentColor" stroke="currentColor" stroke-width="1.2"/></svg><svg viewBox="0 0 20 20" aria-hidden="true"><path d="M10 1.8l2.5 5.3 5.7.7-4.2 4 1.1 5.7L10 14.7 4.9 17.5 6 11.8 1.8 7.8l5.7-.7L10 1.8z" fill="currentColor" stroke="currentColor" stroke-width="1.2"/></svg></span></span><p>«&nbsp;Sympathique et region campagne&nbsp;»</p></li><li class="carte-avis court" aria-hidden="true"><div class="qui"><span class="avatar" style="background:#a142f4" aria-hidden="true">F</span><span class="nom">Frédérique B.<small>il y a 8 ans</small></span><span class="g" aria-label="Avis Google">G</span></div><span class="note-carte" aria-label="4 sur 5"><span class="etoiles" aria-hidden="true"><svg viewBox="0 0 20 20" aria-hidden="true"><path d="M10 1.8l2.5 5.3 5.7.7-4.2 4 1.1 5.7L10 14.7 4.9 17.5 6 11.8 1.8 7.8l5.7-.7L10 1.8z" fill="currentColor" stroke="currentColor" stroke-width="1.2"/></svg><svg viewBox="0 0 20 20" aria-hidden="true"><path d="M10 1.8l2.5 5.3 5.7.7-4.2 4 1.1 5.7L10 14.7 4.9 17.5 6 11.8 1.8 7.8l5.7-.7L10 1.8z" fill="currentColor" stroke="currentColor" stroke-width="1.2"/></svg><svg viewBox="0 0 20 20" aria-hidden="true"><path d="M10 1.8l2.5 5.3 5.7.7-4.2 4 1.1 5.7L10 14.7 4.9 17.5 6 11.8 1.8 7.8l5.7-.7L10 1.8z" fill="currentColor" stroke="currentColor" stroke-width="1.2"/></svg><svg viewBox="0 0 20 20" aria-hidden="true"><path d="M10 1.8l2.5 5.3 5.7.7-4.2 4 1.1 5.7L10 14.7 4.9 17.5 6 11.8 1.8 7.8l5.7-.7L10 1.8z" fill="currentColor" stroke="currentColor" stroke-width="1.2"/></svg><svg viewBox="0 0 20 20" aria-hidden="true"><path d="M10 1.8l2.5 5.3 5.7.7-4.2 4 1.1 5.7L10 14.7 4.9 17.5 6 11.8 1.8 7.8l5.7-.7L10 1.8z" fill="none" stroke="currentColor" stroke-width="1.2"/></svg></span></span></li></ul></div></div>
 </section><section id="ferme" class="sec ferme"><div class="env grille-ferme">
-  <figure class="photo-ferme"><img src="img/portrait.webp" alt="Dans le verger de la ferme, une pomme à la main" width="1050" height="1400" loading="lazy"></figure>
+  <figure class="photo-ferme"><img src="img/portrait-1x.webp" srcset="img/portrait-1x.webp 800w, img/portrait.webp 1600w" sizes="(max-width:960px) 90vw, 40vw" alt="Dans le verger de la ferme, une pomme à la main" width="1600" height="2000" loading="lazy"></figure>
   <div class="recit">
     <h2 class="titre">Un prof de sciences devenu paysan</h2>
     <p>David Duchène enseignait les sciences. En 2003, il se lance comme maraîcher à Wépion. En 2008, il s'installe à Senzeilles sur 3 hectares et construit lui-même sa maison et ses hangars.</p>
@@ -306,7 +306,7 @@ h1,h2,h3,.marque,.chiffre,.mois,.reperes dt,.mot,.prix b{font-family:"Young Seri
     <dl class="reperes"><div><dt>2003</dt><dd>premières cultures</dd></div><div><dt>10&nbsp;ha</dt><dd>en agriculture bio</dd></div><div><dt>40&nbsp;%</dt><dd>des ventes en GASAP</dd></div></dl>
   </div>
 </div>
-<div class="bande-photos" aria-hidden="true"><img src="img/ble.webp" alt="" loading="lazy"><img src="img/rangs.webp" alt="" loading="lazy"><img src="img/serre.webp" alt="" loading="lazy"><img src="img/poireau.webp" alt="" loading="lazy"></div>
+<div class="bande-photos" aria-hidden="true"><img src="img/ble.webp" alt="" loading="lazy"><img src="img/rangs.webp" alt="" loading="lazy"><img src="img/serre-1x.webp" srcset="img/serre-1x.webp 1000w, img/serre.webp 2000w" sizes="(max-width:960px) 50vw, 30vw" alt="" loading="lazy"><img src="img/poireau-1x.webp" srcset="img/poireau-1x.webp 600w, img/poireau.webp 1200w" sizes="(max-width:960px) 50vw, 20vw" alt="" loading="lazy"></div>
 </section><section id="saison" class="sec saison"><div class="env">
   <h2 class="titre">La saison à la ferme</h2>
   <ol class="agenda">
